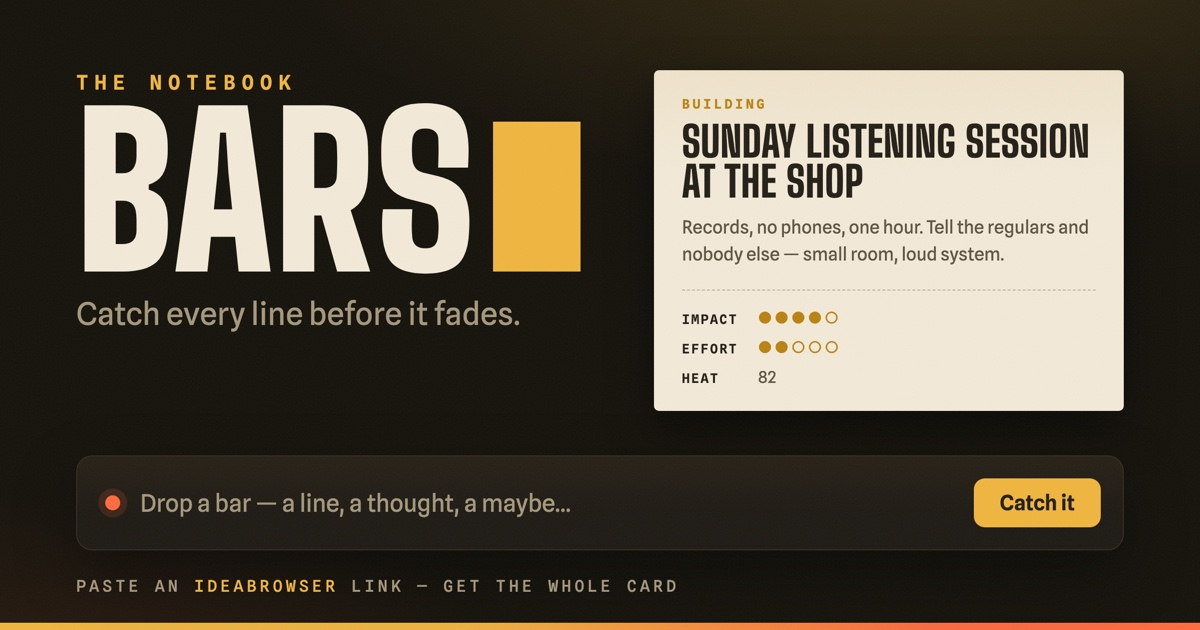
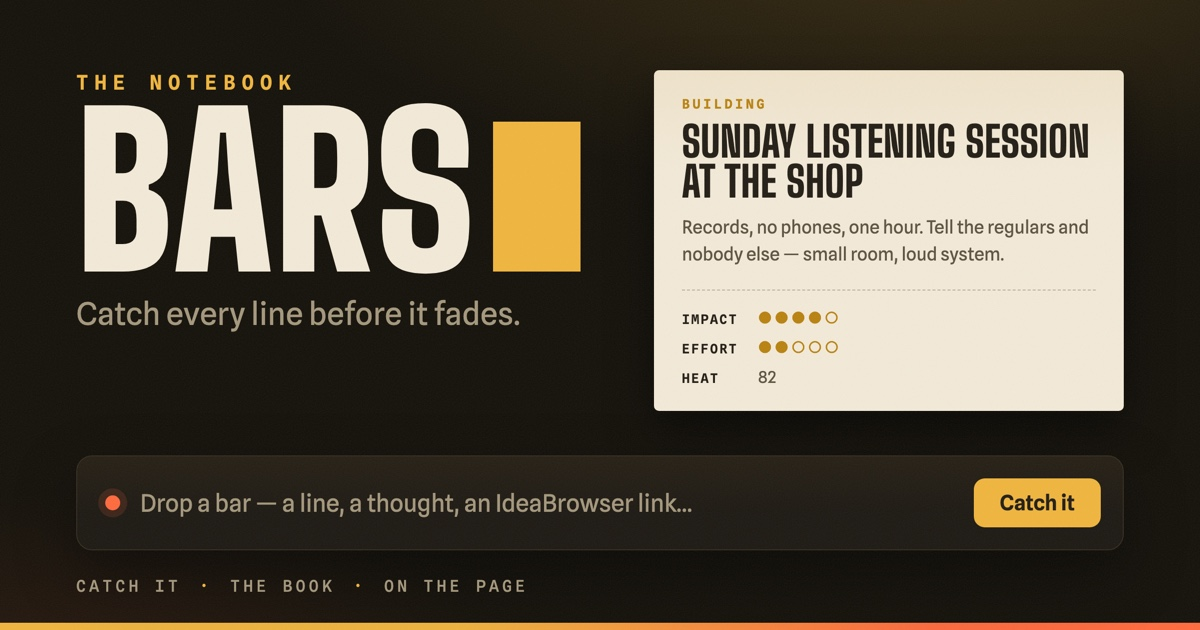
Keep IdeaBrowser proportional in capture copy and OG
IdeaBrowser is one input among several, not the product. Move the
mention inline into the quick capture placeholder, matching the Perci
build, and restore the three-move footstrip on the social preview.

Changed region(s): [[0.0617, 0.9048, 0.4933, 0.9651], [0.4008, 0.7841, 0.5858, 0.8143], [0.5242, 0.9048, 0.555, 0.9349]]

diff --git a/index.html b/index.html
@@ -56,7 +56,7 @@
 
       <form id="quickForm" class="capture-bar" aria-label="Quick capture">
         <span class="rec-dot" aria-hidden="true"></span>
-        <textarea id="quickInput" rows="1" placeholder="Drop a bar — a line, a thought, a maybe..."></textarea>
+        <textarea id="quickInput" rows="1" placeholder="Drop a bar — a line, a thought, an IdeaBrowser link..."></textarea>
         <button class="primary-button" type="submit">Catch it</button>
         <p class="capture-hint">
           <span class="kbd">⌘↵</span> to catch it &nbsp;·&nbsp; <span id="quickCount">0 in the inbox</span> &nbsp;·&nbsp; <span id="saveState">Saved locally</span>

diff --git a/design/og.html b/design/og.html
@@ -245,12 +245,12 @@
 
     <div class="capture-bar">
       <span class="rec-dot"></span>
-      <p>Drop a bar — a line, a thought, a maybe…</p>
+      <p>Drop a bar — a line, a thought, an IdeaBrowser link…</p>
       <span class="pill">Catch it</span>
     </div>
 
     <div class="footstrip">
-      <span>Paste an <s>IdeaBrowser</s> link — get the whole card</span>
+      <span>Catch it</span><s>·</s><span>The book</span><s>·</s><span>On the page</span>
     </div>
   </div>
 
